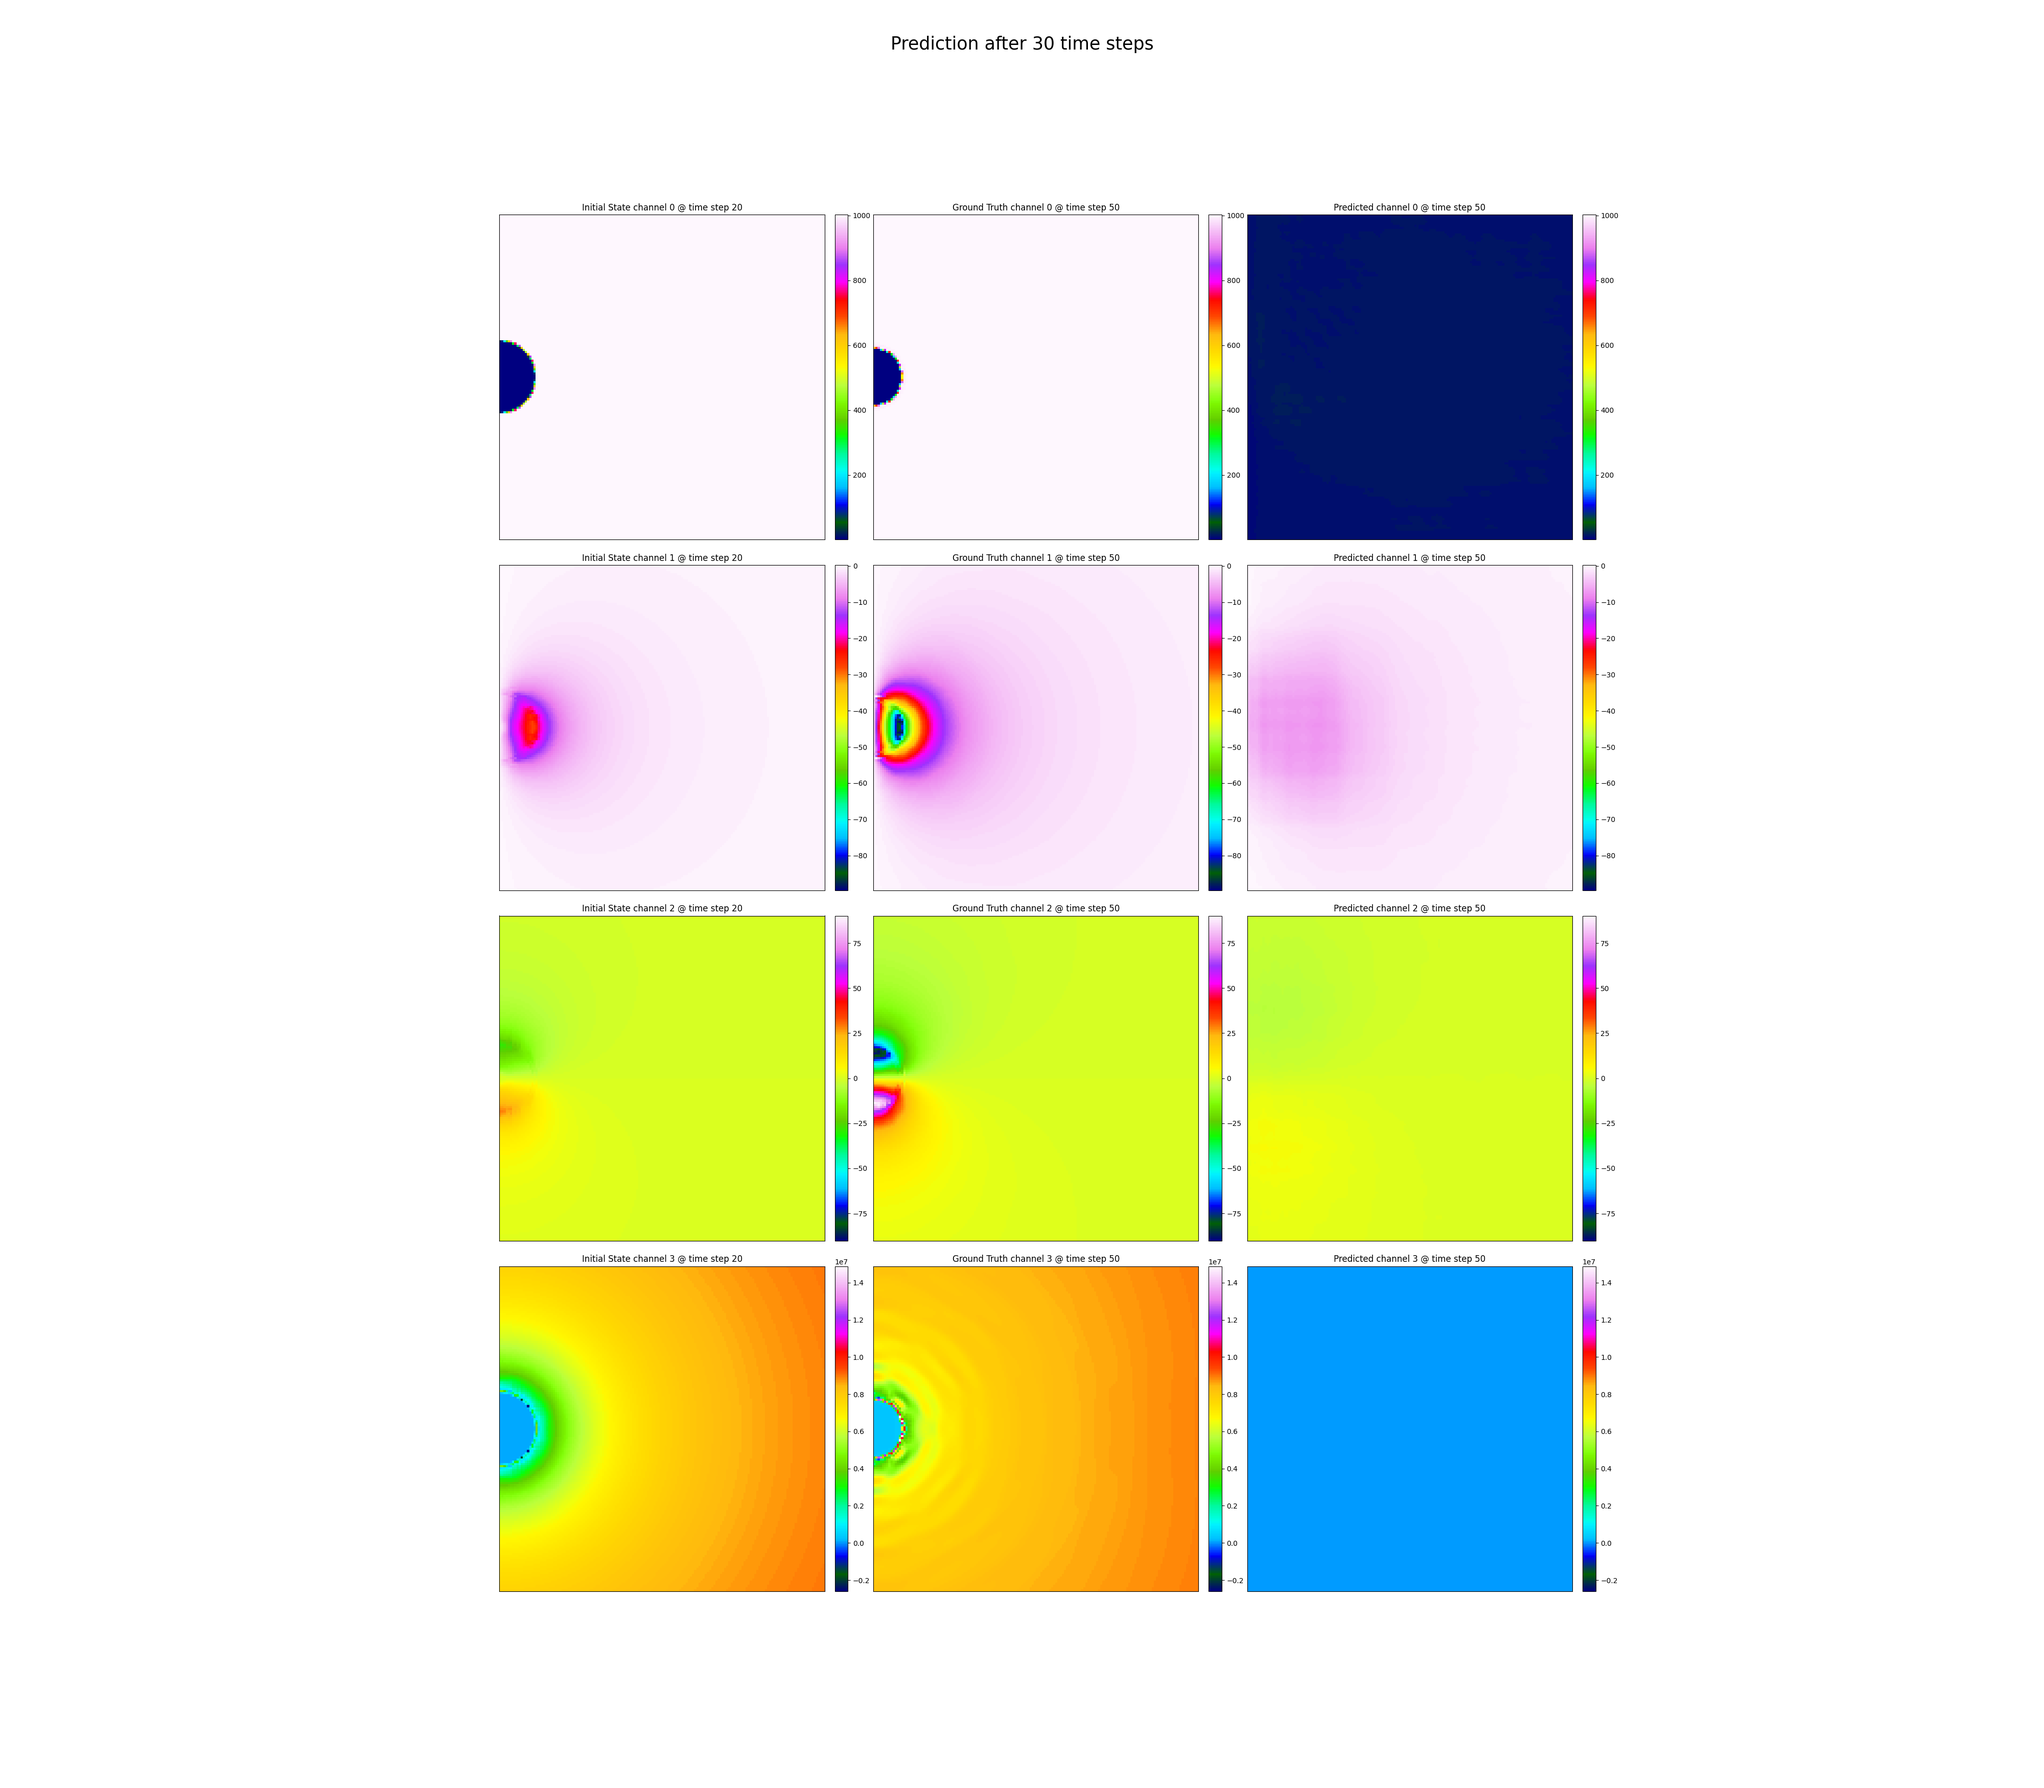
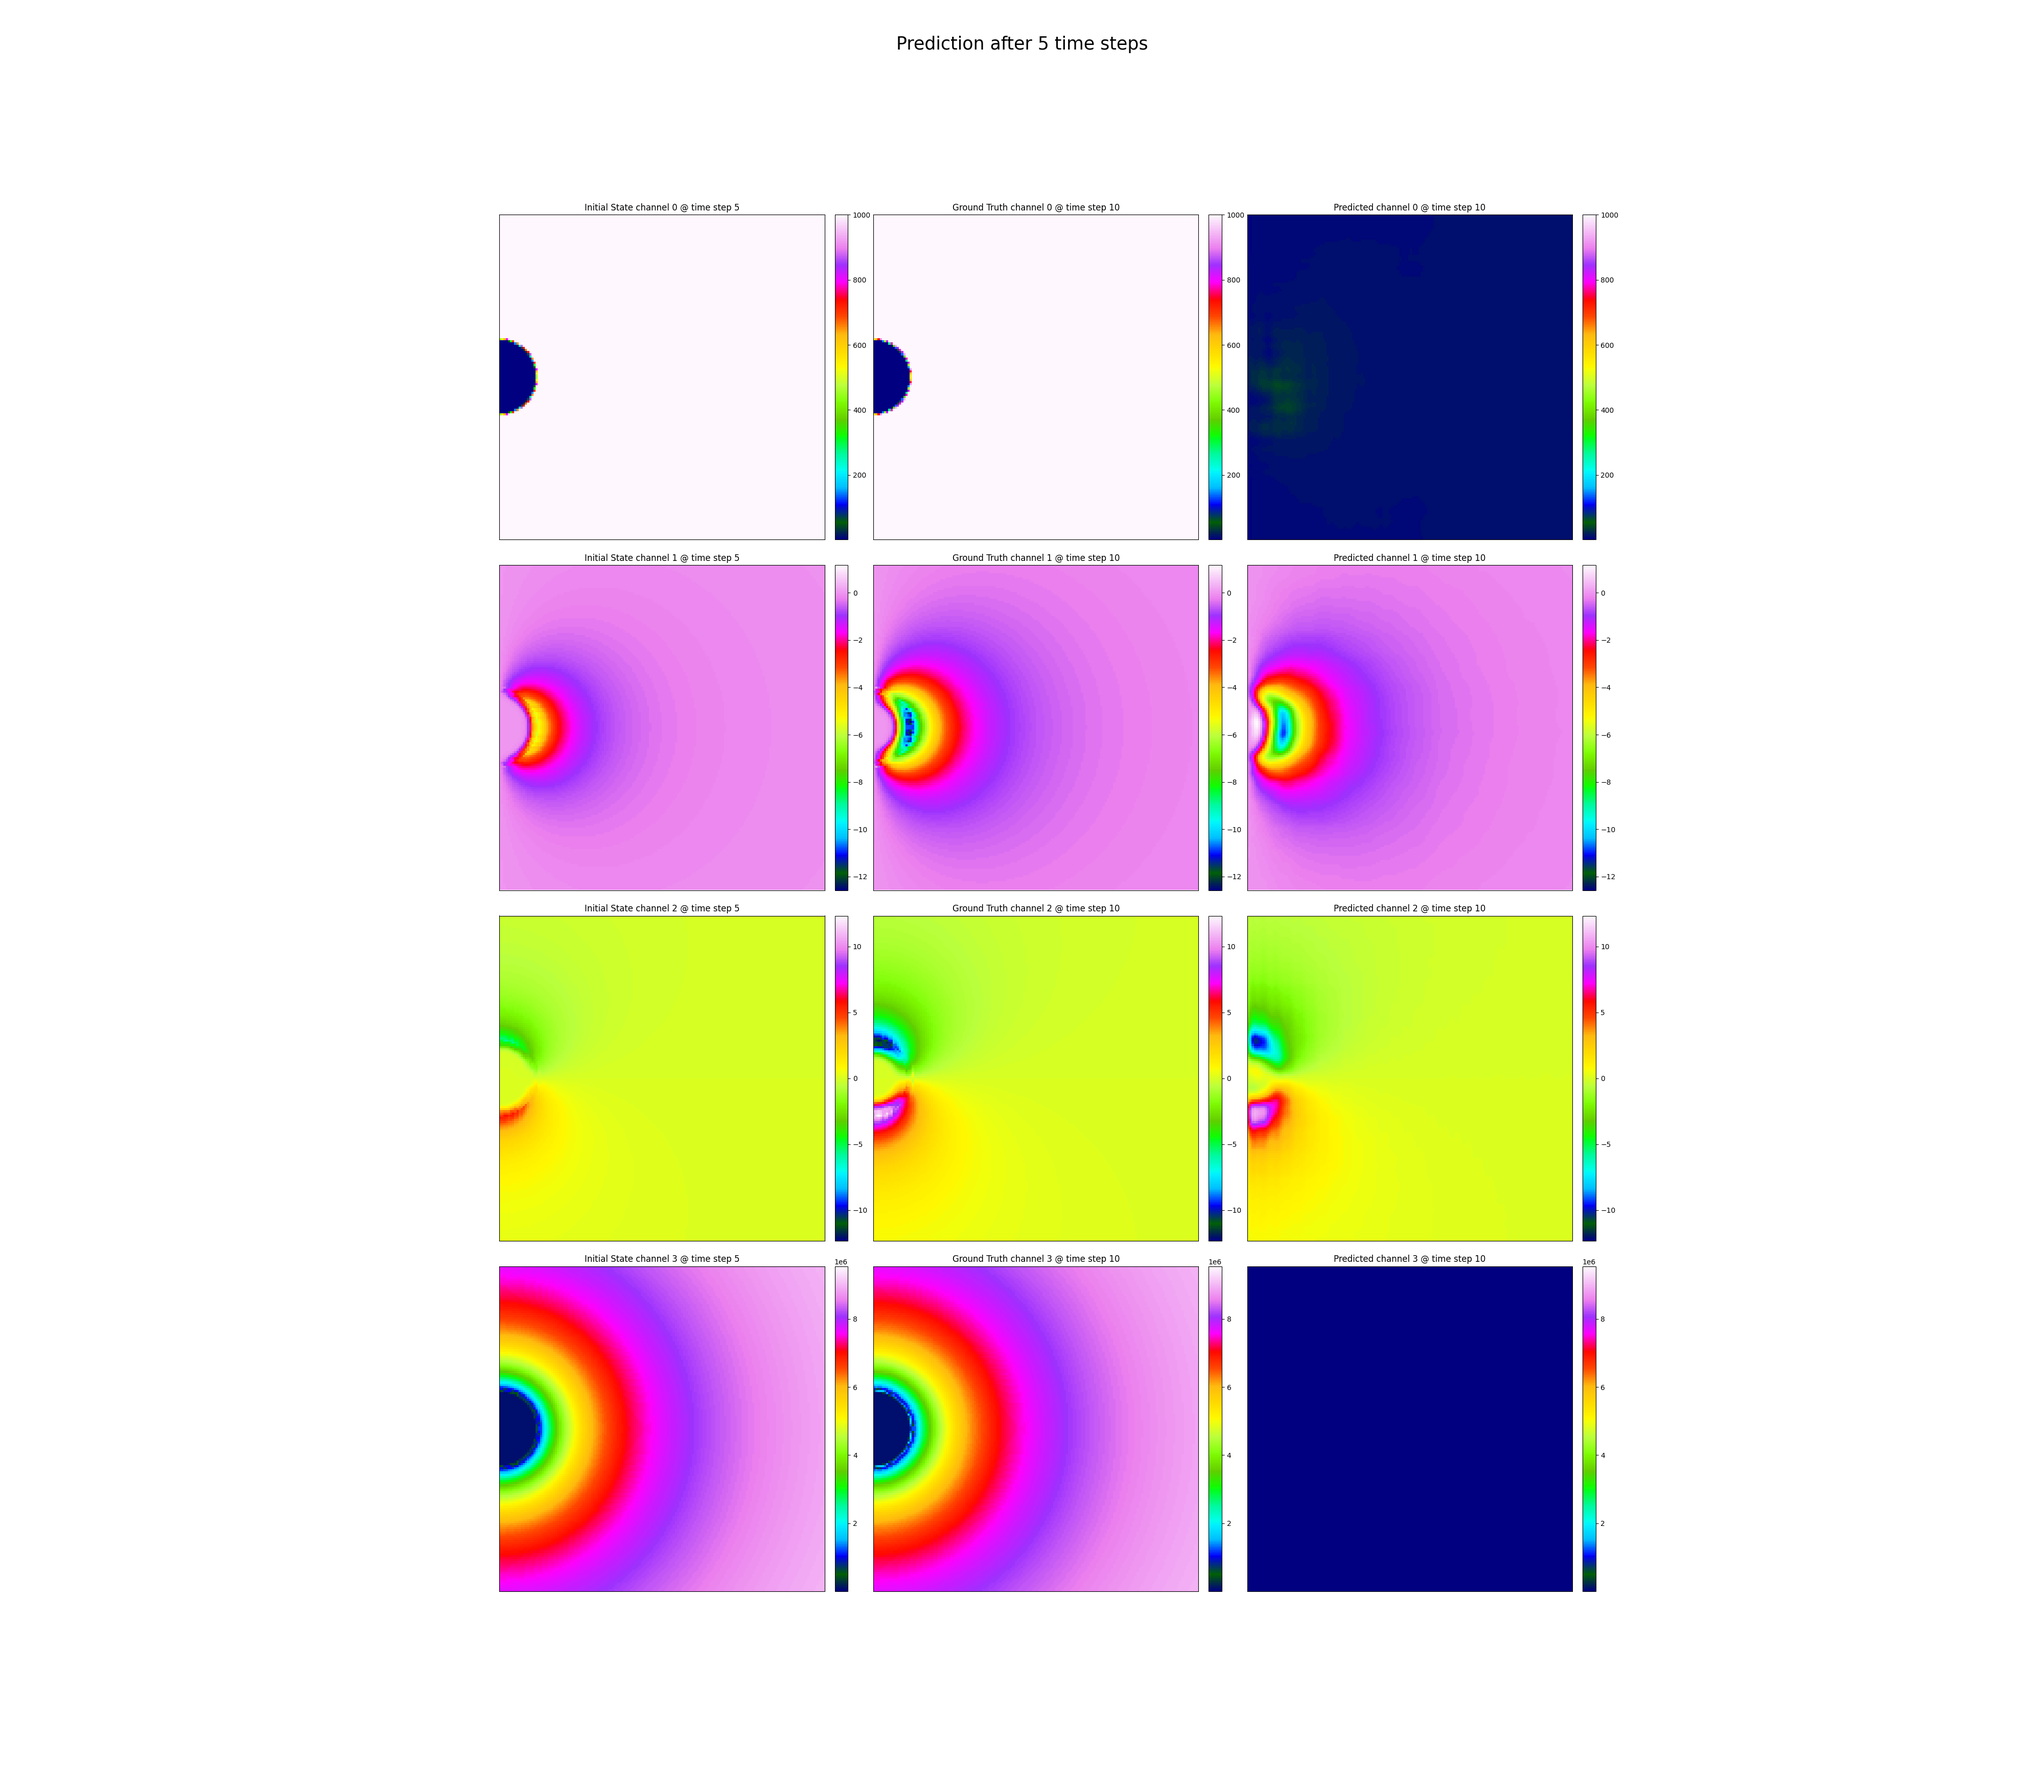
wip

diff --git a/scOT/trainer.py b/scOT/trainer.py
@@ -314,11 +314,13 @@ class Trainer(Trainer_):
                             params["embeddings"].append(p)
                         elif n in decay_parameters and p.requires_grad:
                             params["standard"].append(p)
+                            p.requires_grad=False
                         elif p.requires_grad:
                             if n in time_embedding_params:
                                 params["time_embedding"].append(p)
                             else:
                                 params["no_weight_decay"].append(p)
+                                p.requires_grad=False
                     optimizer_grouped_parameters = [
                         {
                             "params": params["standard"],

diff --git a/scOT/problems/base.py b/scOT/problems/base.py
@@ -113,7 +113,7 @@ def get_dataset(dataset, **kwargs):
         if "out" in dataset:
             default_time_settings = {"max_num_time_steps": 30, "time_step_size": 2}
         else:
-            default_time_settings = {"max_num_time_steps": 50, "time_step_size": 1} # although it is useless!
+            default_time_settings = {"max_num_time_steps": 10, "time_step_size": 2} # although it is useless!
         if "tracer" in dataset:
             tracer = True
         else:

diff --git a/scOT/train-sahba.py b/scOT/train-sahba.py
@@ -14,7 +14,7 @@ import psutil
 import os
 
 os.environ["HDF5_USE_FILE_LOCKING"] = "FALSE"
-os.environ["CUDA_VISIBLE_DEVICES"] = "7,6,5,4"
+os.environ["CUDA_VISIBLE_DEVICES"] = "7"
 import yaml
 import matplotlib.pyplot as plt
 import transformers
